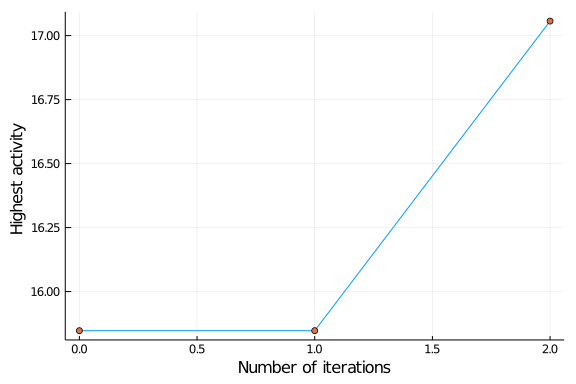
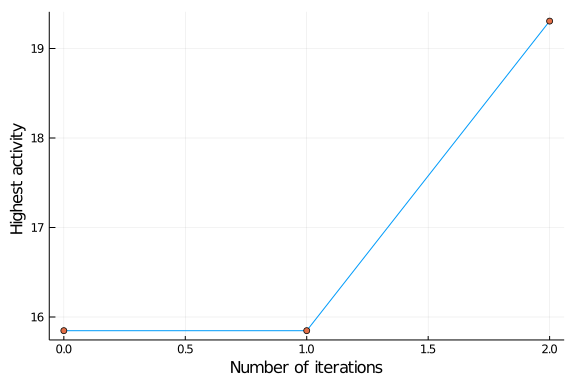
:pencil2:

diff --git a/examples/BOMoD_tutorial.md b/examples/BOMoD_tutorial.md
@@ -1,8 +1,8 @@
 # Illustrations BOMoD.jl
 
-
-## A) Construct Design space
-
+##############################
+## A Construct Design space #
+##############################
 
 ### Input Settings
 ````julia
@@ -11,9 +11,9 @@ using DataFrames
 using Plots
 
 # Input modules u
-ice_flavours = groupmod([:Vanilla, :Chocolate, :Strawberry, :Banana, :Pistachio, :Stracciatella, :Almond, :Blackberry, :Coffee, :Lemon]);
+ice_flavours = groupmod([:Vanilla, :Chocolate, :Strawberry, :Banana, :Pistachio, :Stracciatella, :Almond, :Blackberry, :Coffee, :Lemon, :Cherry, :Caramel, :Ginger, :Hazelnut, :Mango]);
 n_scopes = 2
-cone = true; # cone = orderd ice_cream
+jar = false; # jar = unorderd ice_cream
 ````
 
 
@@ -37,19 +37,20 @@ Mod{Symbol}(:Vanilla), BOMoD.Mod{Symbol}(:Chocolate)])
 
 ### Constructing Design
 ````julia
-design = constructdesign(ice_flavours,n_scopes,order = cone);
+design = constructdesign(ice_flavours,n_scopes,order = jar)
 ````
 
 
 ````
-Used modules : {GroupMod}{:Almond, :Banana, :Blackberry, :Chocolate, :Coffe
-e, :Lemon, :Pistachio, :Stracciatella, :Strawberry, :Vanilla}
+Used modules : {GroupMod}{:Almond, :Banana, :Blackberry, :Caramel, :Cherry,
+ :Chocolate, :Coffee, :Ginger, :Hazelnut, :Lemon, :Mango, :Pistachio, :Stra
+cciatella, :Strawberry, :Vanilla}
 allowed length : 2
 constraints : BOMoD.NoConstraint{Nothing}(nothing)
 	 	 designspace
- spacetype | BOMoD.FullOrderedSpace{BOMoD.Mod{Symbol}}
- generated constructs | BOMoD.OrderedConstruct{BOMoD.Mod{Symbol}}
- n_consturcts | 100
+ spacetype | BOMoD.FullUnorderedSpace{BOMoD.Mod{Symbol}}
+ generated constructs | BOMoD.UnorderedConstruct{BOMoD.Mod{Symbol}}
+ n_consturcts | 105
 ````
 
 
@@ -69,32 +70,36 @@ S = collect(space)
 
 
 ````
-100-element Array{BOMoD.OrderedConstruct{BOMoD.Mod{Symbol}},1}:
- {OrderedConstruct}[:Almond, :Almond]
- {OrderedConstruct}[:Almond, :Banana]
- {OrderedConstruct}[:Almond, :Blackberry]
- {OrderedConstruct}[:Almond, :Chocolate]
- {OrderedConstruct}[:Almond, :Coffee]
- {OrderedConstruct}[:Almond, :Lemon]
- {OrderedConstruct}[:Almond, :Pistachio]
- {OrderedConstruct}[:Almond, :Stracciatella]
- {OrderedConstruct}[:Almond, :Strawberry]
- {OrderedConstruct}[:Almond, :Vanilla]
+105-element Array{BOMoD.UnorderedConstruct{BOMoD.Mod{Symbol}},1}:
+ {UnorderedConstruct}{:Banana, :Almond}
+ {UnorderedConstruct}{:Blackberry, :Almond}
+ {UnorderedConstruct}{:Blackberry, :Banana}
+ {UnorderedConstruct}{:Caramel, :Almond}
+ {UnorderedConstruct}{:Caramel, :Banana}
+ {UnorderedConstruct}{:Caramel, :Blackberry}
+ {UnorderedConstruct}{:Cherry, :Almond}
+ {UnorderedConstruct}{:Cherry, :Banana}
+ {UnorderedConstruct}{:Cherry, :Blackberry}
+ {UnorderedConstruct}{:Cherry, :Caramel}
  ⋮
- {OrderedConstruct}[:Vanilla, :Banana]
- {OrderedConstruct}[:Vanilla, :Blackberry]
- {OrderedConstruct}[:Vanilla, :Chocolate]
- {OrderedConstruct}[:Vanilla, :Coffee]
- {OrderedConstruct}[:Vanilla, :Lemon]
- {OrderedConstruct}[:Vanilla, :Pistachio]
- {OrderedConstruct}[:Vanilla, :Stracciatella]
- {OrderedConstruct}[:Vanilla, :Strawberry]
- {OrderedConstruct}[:Vanilla, :Vanilla]
+ {UnorderedConstruct}{:Vanilla, :Chocolate}
+ {UnorderedConstruct}{:Vanilla, :Coffee}
+ {UnorderedConstruct}{:Vanilla, :Ginger}
+ {UnorderedConstruct}{:Vanilla, :Hazelnut}
+ {UnorderedConstruct}{:Vanilla, :Lemon}
+ {UnorderedConstruct}{:Vanilla, :Mango}
+ {UnorderedConstruct}{:Vanilla, :Pistachio}
+ {UnorderedConstruct}{:Vanilla, :Stracciatella}
+ {UnorderedConstruct}{:Vanilla, :Strawberry}
 ````
 
 
-## B Bayesian Optimisation
 
+
+
+##############################
+## B Bayesian Optimisation   #
+##############################
 
 ## (Simulated activities)
 ````julia
@@ -107,19 +112,28 @@ ground_truth(construct,toy_data) = [sum([toy_data[m] for m in c]) for c in const
 ````
 
 
+````
+ground_truth (generic function with 1 method)
+````
+
+
+
+
+
+
 ### Frist sampling step
 
 ````julia
 n_first = 3;
-ice_combinations = sample(rng,space,n_first)
+ice_combinations = sample(rng,space,n_first);
 ````
 
 
 ````
-3-element Array{BOMoD.OrderedConstruct{BOMoD.Mod{Symbol}},1}:
- {OrderedConstruct}[:Almond, :Banana]
- {OrderedConstruct}[:Vanilla, :Blackberry]
- {OrderedConstruct}[:Almond, :Pistachio]
+3-element Array{BOMoD.UnorderedConstruct{BOMoD.Mod{Symbol}},1}:
+ {UnorderedConstruct}{:Ginger, :Banana}
+ {UnorderedConstruct}{:Mango, :Chocolate}
+ {UnorderedConstruct}{:Stracciatella, :Coffee}
 ````
 
 
@@ -133,6 +147,15 @@ lab_μ = ground_truth(ice_combinations,toy_data)
 df = DataFrame(ice_combinations = ice_combinations, μ = lab_μ);
 maximums = [maximum(df.μ)]
 ````
+
+
+````
+1-element Array{Float64,1}:
+ 15.847248649066662
+````
+
+
+
 
 
 ### Surrogate model
@@ -167,8 +190,6 @@ predictions = predict_gp(S,x_train,linear_model,ice_flavours)
 ````
 
 
-
-
 ## Batch sampling step
 ````julia
 new_comb = ts_sampler(predictions,3)
@@ -176,10 +197,10 @@ new_comb = ts_sampler(predictions,3)
 
 
 ````
-3-element Array{BOMoD.OrderedConstruct{BOMoD.Mod{Symbol}},1}:
- {OrderedConstruct}[:Vanilla, :Almond]
- {OrderedConstruct}[:Chocolate, :Vanilla]
- {OrderedConstruct}[:Almond, :Almond]
+3-element Array{BOMoD.UnorderedConstruct{BOMoD.Mod{Symbol}},1}:
+ {UnorderedConstruct}{:Hazelnut, :Chocolate}
+ {UnorderedConstruct}{:Stracciatella, :Almond}
+ {UnorderedConstruct}{:Stracciatella, :Chocolate}
 ````
 
 
@@ -206,7 +227,7 @@ scatter!(([0:length(maximums)-1],maximums),label = "")
 
 
 
-## Iteration 2...
+## Iteration 2
 ````julia
 # setup the model
 x_train = df.ice_combinations
@@ -230,7 +251,13 @@ scatter!(([0:length(maximums)-1],maximums),label = "")
 
 
 ![](figures/BOMoD_tutorial_11_1.png)
+
+
+
 ## Iteration 3
 ![](figures/BOMoD_tutorial_12_1.png)
-## Iteration 4
+
+
+
+## Iteration 4....
 ![](figures/BOMoD_tutorial_13_1.png)
